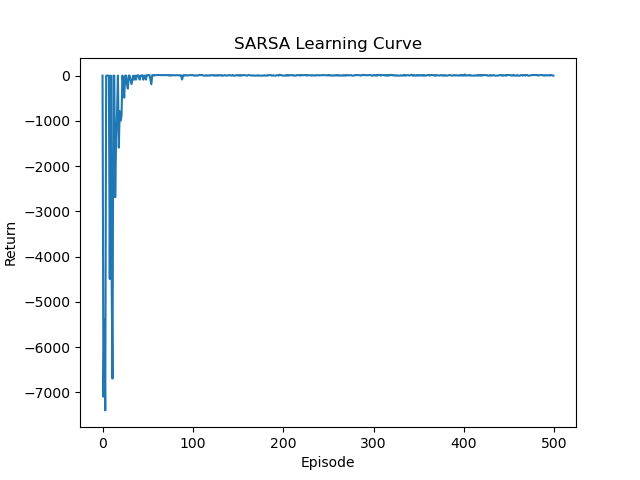
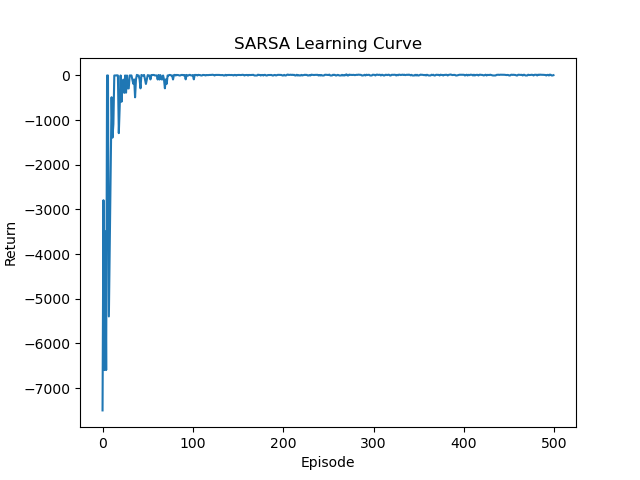
sarsa_pendulum - plot

diff --git a/sarsa_pendulum.py b/sarsa_pendulum.py
@@ -38,14 +38,14 @@ def sarsa(pendulum, alpha=0.1, gamma=0.95, epsilon=0.1, num_episodes=100):
             action = next_action
         returns.append(total_reward)
 
-    policy = np.argmax(q_values, axis=1)
-    return [max(q_values[s]) for s in range(pendulum.num_states)], returns, policy
+    #policy = np.argmax(q_values, axis=1)
+    return [max(q_values[s]) for s in range(pendulum.num_states)], returns
 
-sarsa_returns, policy = sarsa(pendulum, num_episodes=500)
+sarsa_returns = sarsa(pendulum, num_episodes=500)
 
 # Plot 1 - Return vs. Episodes
 num_episodes = 500
-_, returns, _  = sarsa(pendulum, num_episodes=num_episodes)
+_, returns  = sarsa(pendulum, num_episodes=num_episodes)
 plt.plot(range(num_episodes), returns)
 plt.xlabel('Episode')
 plt.ylabel('Return')
@@ -58,7 +58,7 @@ epsilons = [0.1, 0.2, 0.3, 0.4, 0.5]
 num_episodes = 10
 fig, ax = plt.subplots()
 for epsilon in epsilons:
-    _, returns, _ = sarsa(pendulum, epsilon=epsilon, num_episodes=num_episodes)
+    _, returns = sarsa(pendulum, epsilon=epsilon, num_episodes=num_episodes)
     ax.plot(range(num_episodes), returns, label=f'epsilon={epsilon}')
 ax.legend()
 ax.set_xlabel('Episode')
@@ -72,7 +72,7 @@ alphas = [0.1, 0.2, 0.3, 0.4, 0.5]
 num_episodes = 10
 fig, ax = plt.subplots()
 for alpha in alphas:
-    _, returns, _ = sarsa(pendulum, alpha=alpha, num_episodes=num_episodes)
+    _, returns = sarsa(pendulum, alpha=alpha, num_episodes=num_episodes)
     ax.plot(range(num_episodes), returns, label=f'alpha={alpha}')
 ax.legend()
 ax.set_xlabel('Episode')
@@ -81,7 +81,7 @@ ax.set_title('SARSA Learning Curves for Different Alpha Values')
 plt.savefig('figures/pendulum/sarsa_learning_curves_alpha.png')
 #plt.show()
 
-# Plot 4 - Example Trajectories for Different Policies
+""" # Plot 4 - Example Trajectories for Different Policies
 env = discrete_pendulum.Pendulum()
 num_trajectories = 5
 time_steps = 100
@@ -101,7 +101,7 @@ ax.set_xlabel('Time Step')
 ax.set_ylabel('State')
 ax.set_title('Example Trajectories for Different Policies')
 plt.savefig('figures/pendulum/ql_example_trajectories.png')
-#plt.show()
+#plt.show() """
 
 cpu_end_time = time.process_time()
 cpu_time_taken = cpu_end_time - cpu_start_time
@@ -113,6 +113,6 @@ print(f"Processing time: {processing_time:.2f} seconds")
 
 """
 Output:
-CPU time taken:  seconds
-Processing time:  seconds
+CPU time taken: 127.9534 seconds
+Processing time: 134.10 seconds
 """
